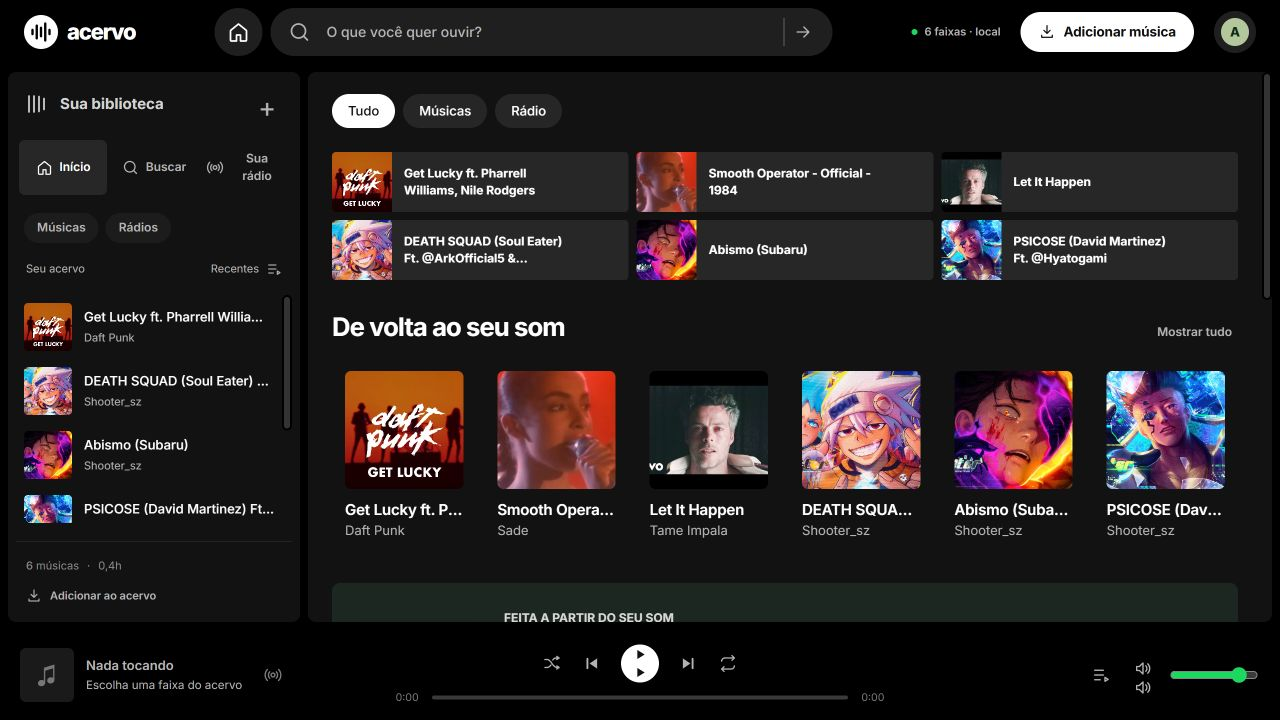
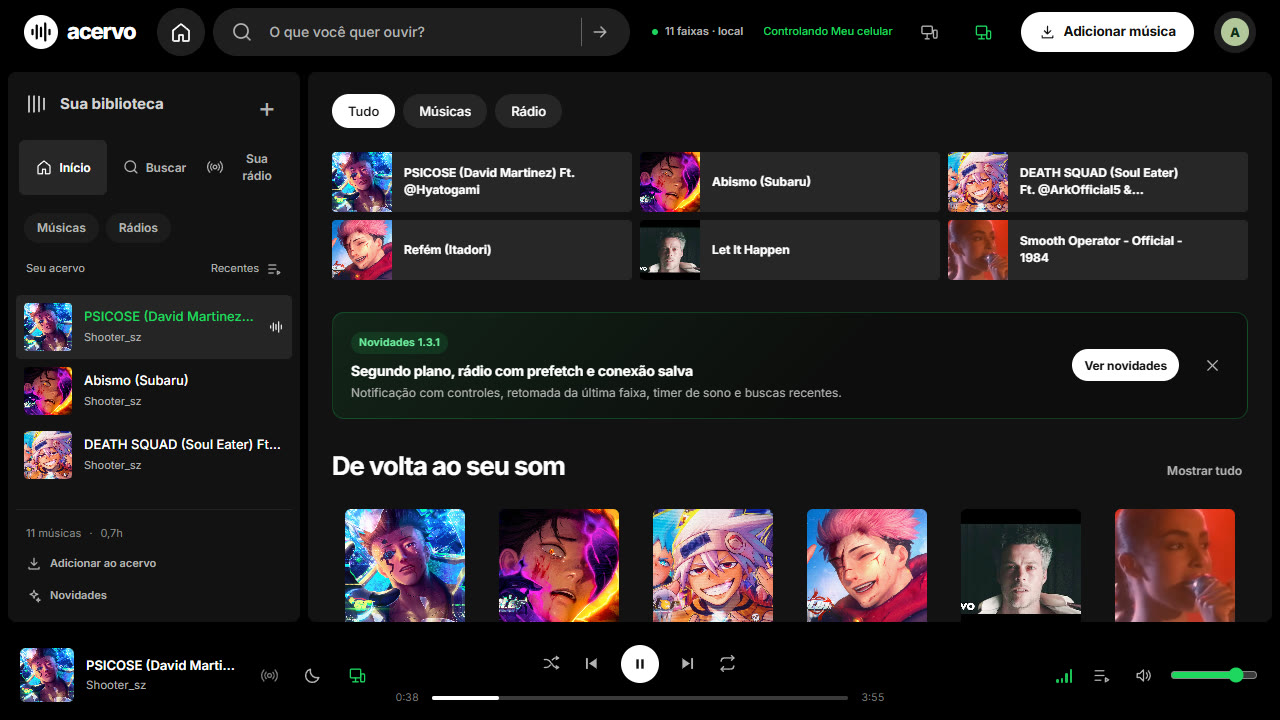
Atualiza capturas do PC, novidades e mobile

diff --git a/README.md b/README.md
@@ -6,11 +6,13 @@ Repositório: https://github.com/amarosilvasouza1/acervo
 
 ## Capturas
 
-![Acervo no desktop](docs/desktop.jpg)
+![Acervo no PC](docs/desktop.jpg)
 
-![Rádio por similaridade](docs/radio.jpg)
+![Novidades da versão 1.3.1](docs/novidades.jpg)
 
 <img src="docs/mobile.png" alt="Acervo no celular" width="320">
+
+![Rádio por similaridade](docs/radio.jpg)
 
 Interface construída a partir do sistema visual descrito em **spotify-design.md**: fundo #000, superfícies #121212/#181818, tinta #fff, apoio #b3b3b3, acento #1ed760, texto sobre acento #111, pills de 1000px, foco visível e suporte a movimento reduzido.
 
